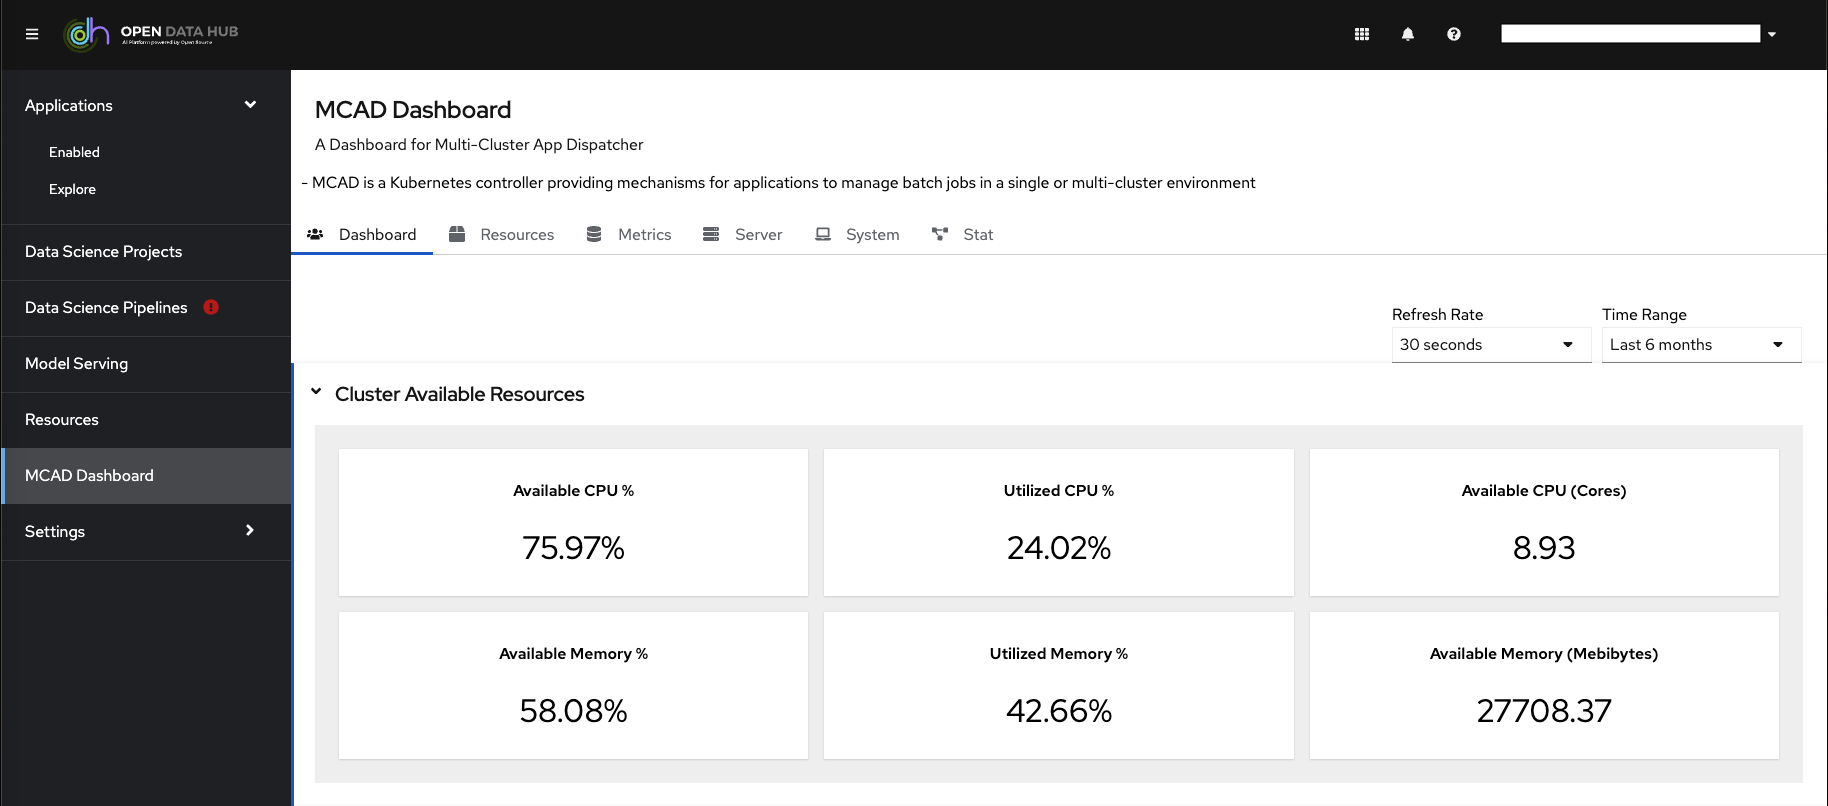
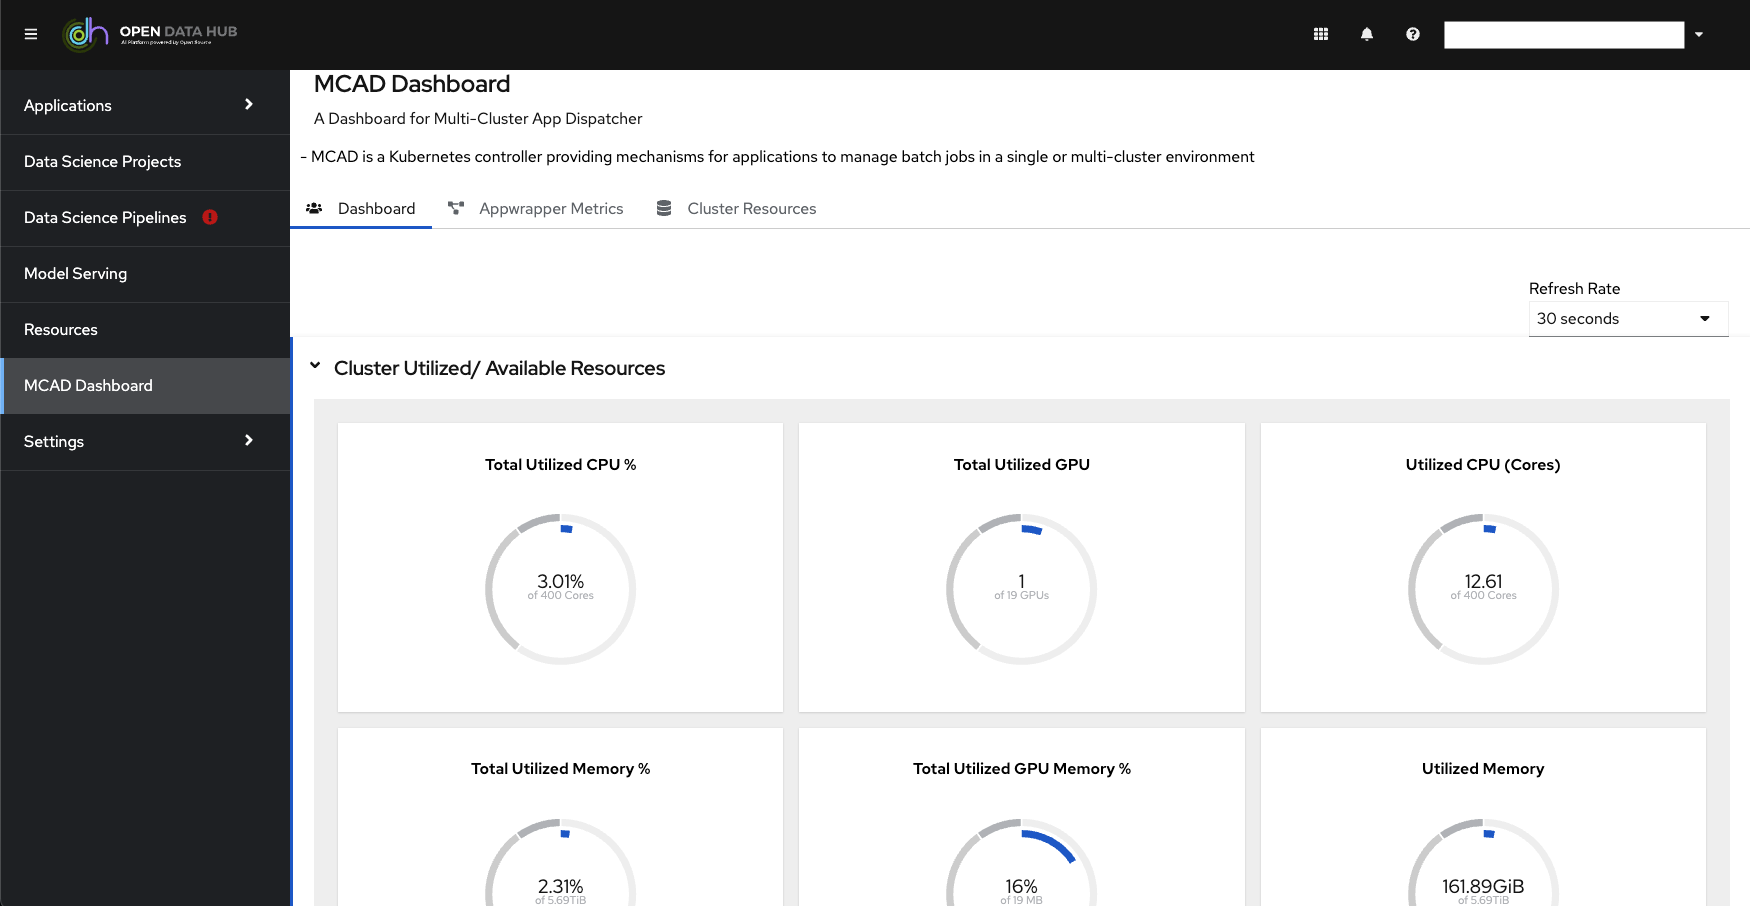
update features doc and readme

diff --git a/FEATURES.md b/FEATURES.md
@@ -6,16 +6,22 @@
 - [1: Cluster Avaiable Resources](#cluster-avaiable-resources)
 - [2: Status Summary](#status-summary)
 - [3: Appwrapper Summary](#appwrapper-summary)
+- [4: Appwrapper Progress Tracker](#appwrapper-progress-tracker)
 
-### Metrics Tab
-- [4: Cluster Status Summary Metrics](#cluster-status-summary-metrics)
-- [5: Appwrapper Quota Summary](#appwrapper-quota-summary-metrics)
-- [6: CPU Usage by Appwrapper](#cpu-usage-by-appwrapper)
-- [7: Memory Usage by Appwrapper](#memory-usage-by-appwrapper)
-- [8: CPU Request by Namespace](#cpu-request-by-namespace)
-- [9: Memory Request by Namespace](#memory-request-by-namespace)
-- [10: Refresh Rate](#refresh-rate)
-- [11: Time Range](#time-range)
+### Appwrapper Metrics Tab
+- [5: Total Appwrapper Count by Status](#total-appwrapper-count-by-status)
+- [6: Appwrapper Status](#appwrapper-status)
+
+### Cluster Resources Tab
+- [7: Cluster Status Summary Metrics](#cluster-status-summary-metrics)
+- [8: Appwrapper Quota Summary](#appwrapper-quota-summary-metrics)
+- [9: CPU Usage by Appwrapper](#cpu-usage-by-appwrapper)
+- [10: Memory Usage by Appwrapper](#memory-usage-by-appwrapper)
+- [11: CPU Request by Namespace](#cpu-request-by-namespace)
+- [12: Memory Request by Namespace](#memory-request-by-namespace)
+- [13: Refresh Rate](#refresh-rate)
+- [14: Time Range](#time-range)
+- [15: Custom Time Range](#custom-time-range)
 
 
 #### 1. Cluster Avaiable Resources
@@ -29,7 +35,7 @@ This section on the dashboard shows cluster avaiable resources such as:
 - Avaiable CPU (Cores)
 - Avaiable Memory (Mebibytes)
 
-![Cluster Avaiable Resources](docs/rsrc/MCAD-dashboard/cluster_avaiable_resources.png)
+![Cluster Avaiable Resources](docs/rsrc/MCAD-dashboard/cluster_avaiable_resources_full.png)
 
 #### 2. Status Summary
 
@@ -68,9 +74,22 @@ There is a search feature within the appwrapper summary table, the table is sear
 - Namespace
 - Date Created On
 
-![Appwrapper Summary Search](docs/rsrc/MCAD-dashboard/appwrapper_summary_search.png)
+#### Appwrapper Progress Tracker
+![Appwrapper Progress Tracker](docs/rsrc/MCAD-dashboard/appwrapper-progress-tracker.png)
 
-#### 4. Cluster Status Summary Metrics
+#### 4. Appwrapper Metrics
+
+This feature is under the appwrapper metrics tab, which shows the appwrapper mcad specific metrics from promethues:
+
+- Total Appwrapper Count by Status
+
+![Total Appwrapper Count by Status](docs/rsrc/MCAD-dashboard/total-appwrapper-count-by-status.png)
+
+- Appwrapper Status
+
+![Appwrapper Status](docs/rsrc/MCAD-dashboard/appwrapper-status.png)
+
+#### 5. Cluster Status Summary Metrics
 
 This feature is under the metrucs tab, which shows the cluster resources summary such as:
 
@@ -83,7 +102,7 @@ This feature is under the metrucs tab, which shows the cluster resources summary
 
 ![Cluster Status Summary Metrics](docs/rsrc/MCAD-dashboard/metrics_cluster_status_summary.png)
 
-#### 5. Appwrapper Quota Summary Metrics
+#### 6. Appwrapper Quota Summary Metrics
 
 This section displays a table of appwrapper quota sumary by namespace, it shows namespace specific information such as:
 
@@ -98,37 +117,37 @@ This section displays a table of appwrapper quota sumary by namespace, it shows 
 
 ![Appwrapper Quota Summary Metrics](docs/rsrc/MCAD-dashboard/metrics_appwrapper_quota-summary.png)
 
-#### 6. CPU Usage by Appwrapper
+#### 7. CPU Usage by Appwrapper
 
 The following graph shows CPU usage per appwrapper through a given time, the time range can be changed by using the Time Range drop down on top of the dashboard. 
 
 ![CPU Usage (by Appwrapper) Metrics](docs/rsrc/MCAD-dashboard/metrics_cpu_usage_by_appwrapper.png)
 
-#### 7. Memory Usage by Appwrapper
+#### 8. Memory Usage by Appwrapper
 
 The following graph shows Memory usage per appwrapper through a given time, the time range can be changed by using the Time Range drop down on top of the dashboard. 
 
 ![Memory Usage (by Appwrapper) Metrics](docs/rsrc/MCAD-dashboard/metrics_memory_usage_by_appwrapper.png)
 
-#### 8. CPU Request by Namespace
+#### 9. CPU Request by Namespace
 
 The following graph shows CPU Request per namespace through a given time, the time range can be changed by using the Time Range drop down on top of the dashboard. 
 
 ![CPU Request (by Namespace) Metrics](docs/rsrc/MCAD-dashboard/metrics_cpu_request_by_namespace.png)
 
-#### 9. Memory Request by Namespace
+#### 10. Memory Request by Namespace
 
 The following graph shows Memory request per namespace through a given time, the time range can be changed by using the Time Range drop down on top of the dashboard. 
 
 ![Memory Request (by Namespace) Metrics](docs/rsrc/MCAD-dashboard/metrics_memory_request_by_namespace.png)
 
-#### 10. Refresh Rate
+#### 11. Refresh Rate
 
 The refresh rate to retrive data from server can be changed using the dropdown on top of the dashboard
 
 ![Refresh Rate](docs/rsrc/MCAD-dashboard/refresh_rate.png)
 
-#### 11. Time Range
+#### 12. Time Range
 
 The time range can be changed by using the Time Range drop down on top of the dashboard. 
 

diff --git a/README.md b/README.md
@@ -2,7 +2,7 @@
 
 A dashboard for Multi-Cluster App Dispatcher and Open Data Hub components.
 
-![Status Summary](docs/rsrc/MCAD-dashboard/status_summary.png)
+![Status Summary](docs/rsrc/MCAD-dashboard/cluster_avaiable_resources.png)
 
 MCAD/ ODH Dashboard Installation and Components:
 - Shows what's installed
